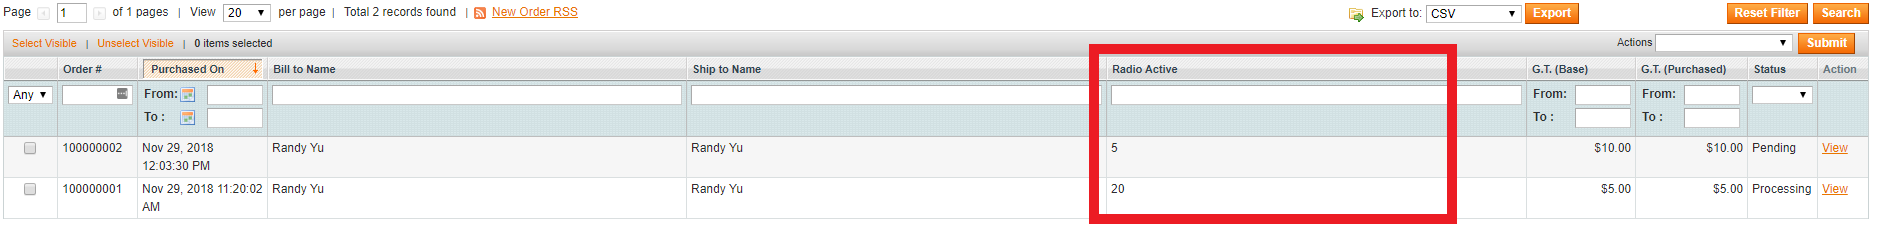
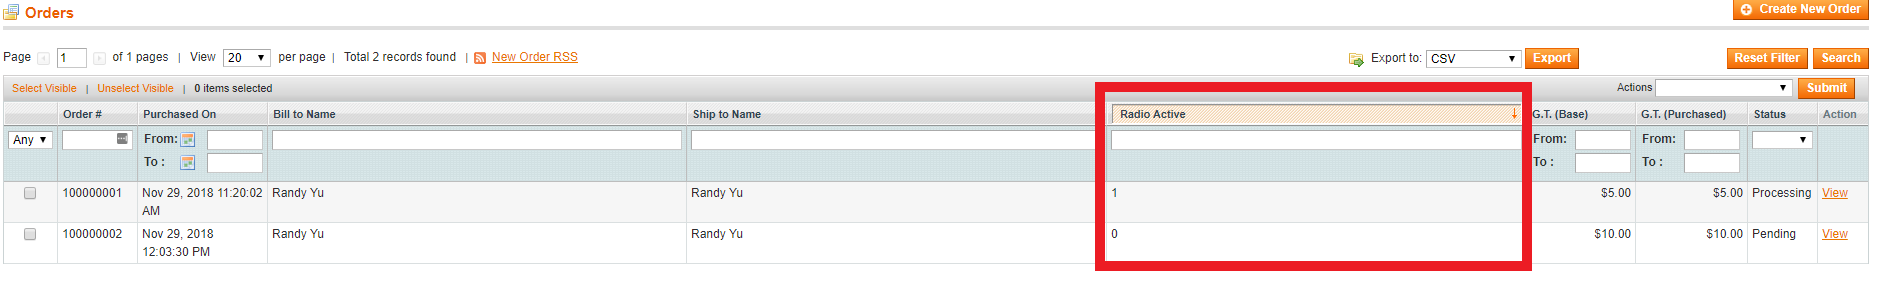
added condition to check order contains radio active item based on config

diff --git a/code/local/Randy/HalfLife/Model/Observer.php b/code/local/Randy/HalfLife/Model/Observer.php
@@ -8,6 +8,10 @@
 
 class Randy_HalfLife_Model_Observer {
 
+    /**
+     * @param $observer
+     * @return Randy_HalfLife_Model_Observer
+     */
     public function salesOrderGridCollectionLoadBefore($observer)
     {
         $collection = $observer->getOrderGridCollection();
@@ -17,22 +21,14 @@ class Randy_HalfLife_Model_Observer {
         $attributeId = Mage::getResourceModel('eav/entity_attribute')
             ->getIdByCode('catalog_product', 'half_life_attribute');
 
+        //retrieve config value
+        $configValue = Mage::getStoreConfig('radio_options/messages/radio_value');
+
         $select = $collection->getSelect();
+
         //join eav value to order grid
         $select->join('catalog_product_entity_int', '`catalog_product_entity_int`.entity_id=`main_table`.entity_id AND `catalog_product_entity_int`.attribute_id = ' . $attributeId,
-            array('radio_active' => 'value'));
-
-        //retrieve config value
-        $configValue = Mage::getStoreConfig('admin/system/config/radio_options');
-
-        //TODO: fix the condition
-        foreach($select as $key => $value){
-            if ($value >= $configValue){
-                $value = 'yes';
-            } else {
-                $value = 'no';
-            }
-        }
+            array('radio_active' => new Zend_Db_Expr('max(`catalog_product_entity_int`.value) > ' . $configValue, 'yes', 'no')));
 
         $select->group('main_table.entity_id');
     }

diff --git a/code/local/Randy/HalfLife/Helper/Data.php b/code/local/Randy/HalfLife/Helper/Data.php
@@ -10,6 +10,9 @@
 
 class Randy_HalfLife_Helper_Data extends Mage_Core_Helper_Abstract
 {
+    /**
+     * @return array
+     */
     public function getRadioColumnParams()
     {
         return array(

diff --git a/README.md b/README.md
@@ -16,8 +16,6 @@ half life value for item
 
 ![screenshot](https://raw.githubusercontent.com/Eudemon/magento1-grid/master/code/local/Randy/HalfLife/screenshot/2.png)
 
-order grid display whether order contains radio active item
-
-//TODO add condition to display 'yes' / 'no' depending on above conditiongit 
+order grid display whether order contains radio active item, sortable
 
 ![screenshot](https://raw.githubusercontent.com/Eudemon/magento1-grid/master/code/local/Randy/HalfLife/screenshot/3.png)
